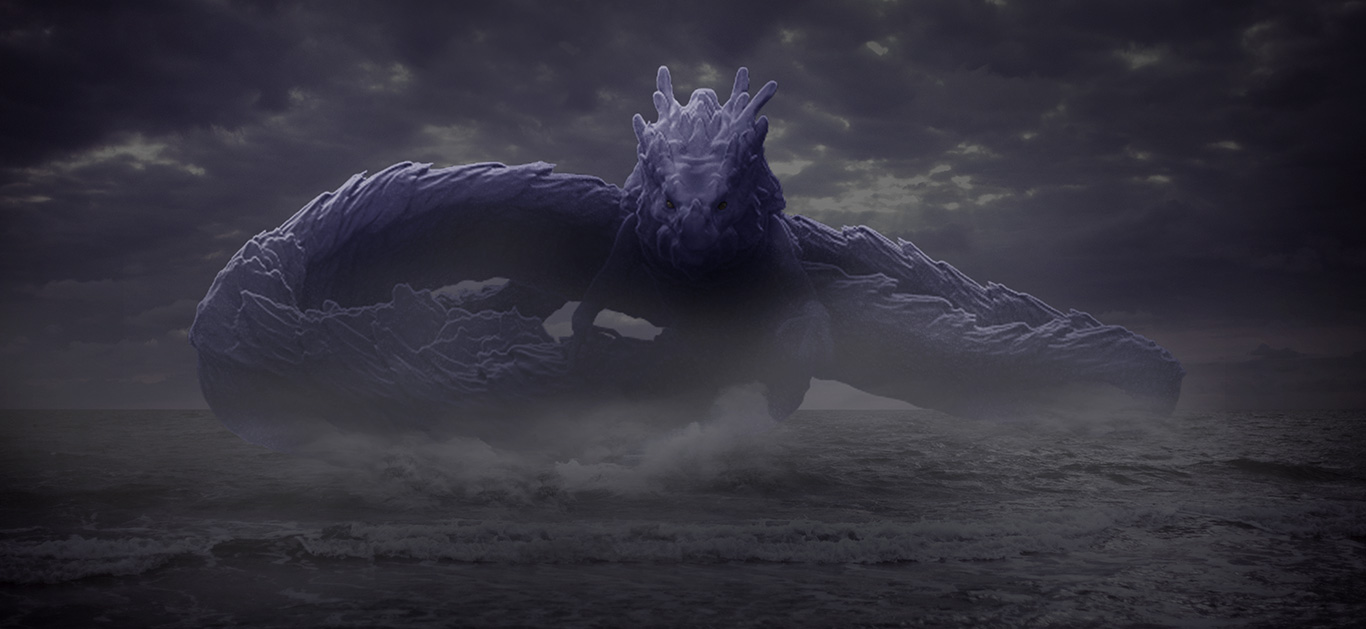
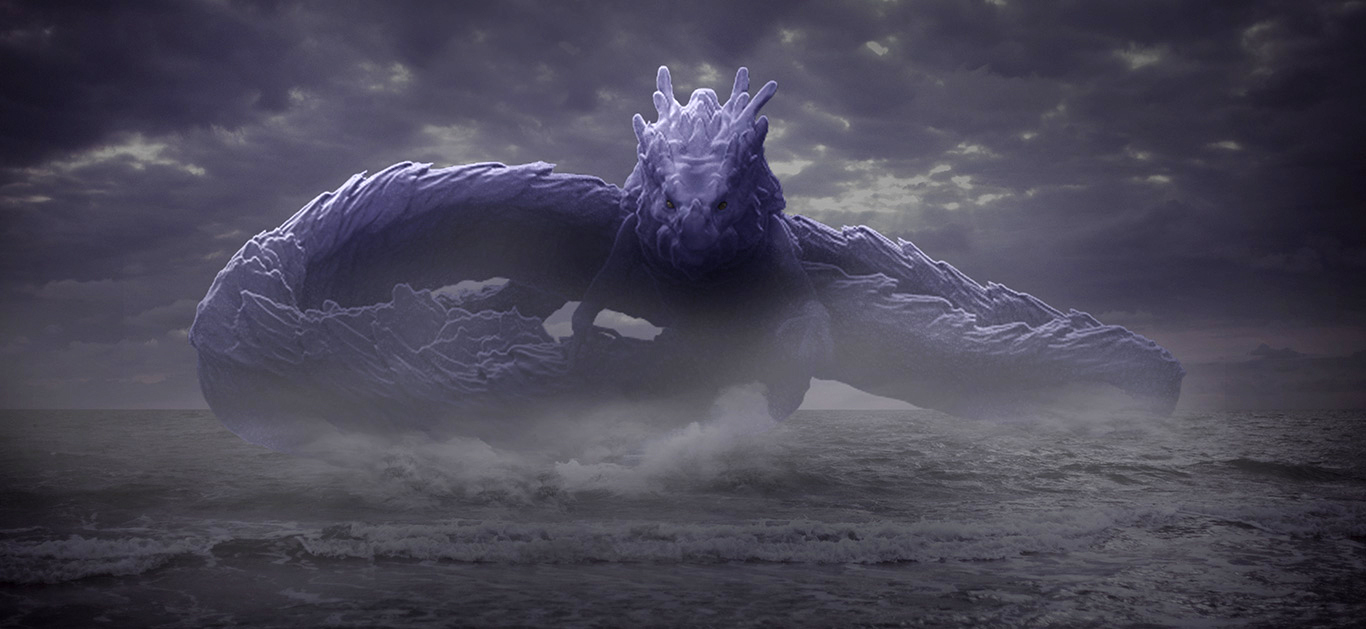
as

diff --git a/assets/sass/_base.scss b/assets/sass/_base.scss
@@ -87,7 +87,7 @@ img{
       content: "";
       width: 0;
       height: 0;
-      background-color: rgba(0,0,0,0.4);
+      background-color: rgba(0,0,0,0.3);
       opacity: 0;
       z-index: -1;
       position: fixed;

diff --git a/assets/css/style.css b/assets/css/style.css
@@ -170,7 +170,7 @@ img {
   content: "";
   width: 0;
   height: 0;
-  background-color: rgba(0, 0, 0, 0.4);
+  background-color: rgba(0, 0, 0, 0.3);
   opacity: 0;
   z-index: -1;
   position: fixed;
